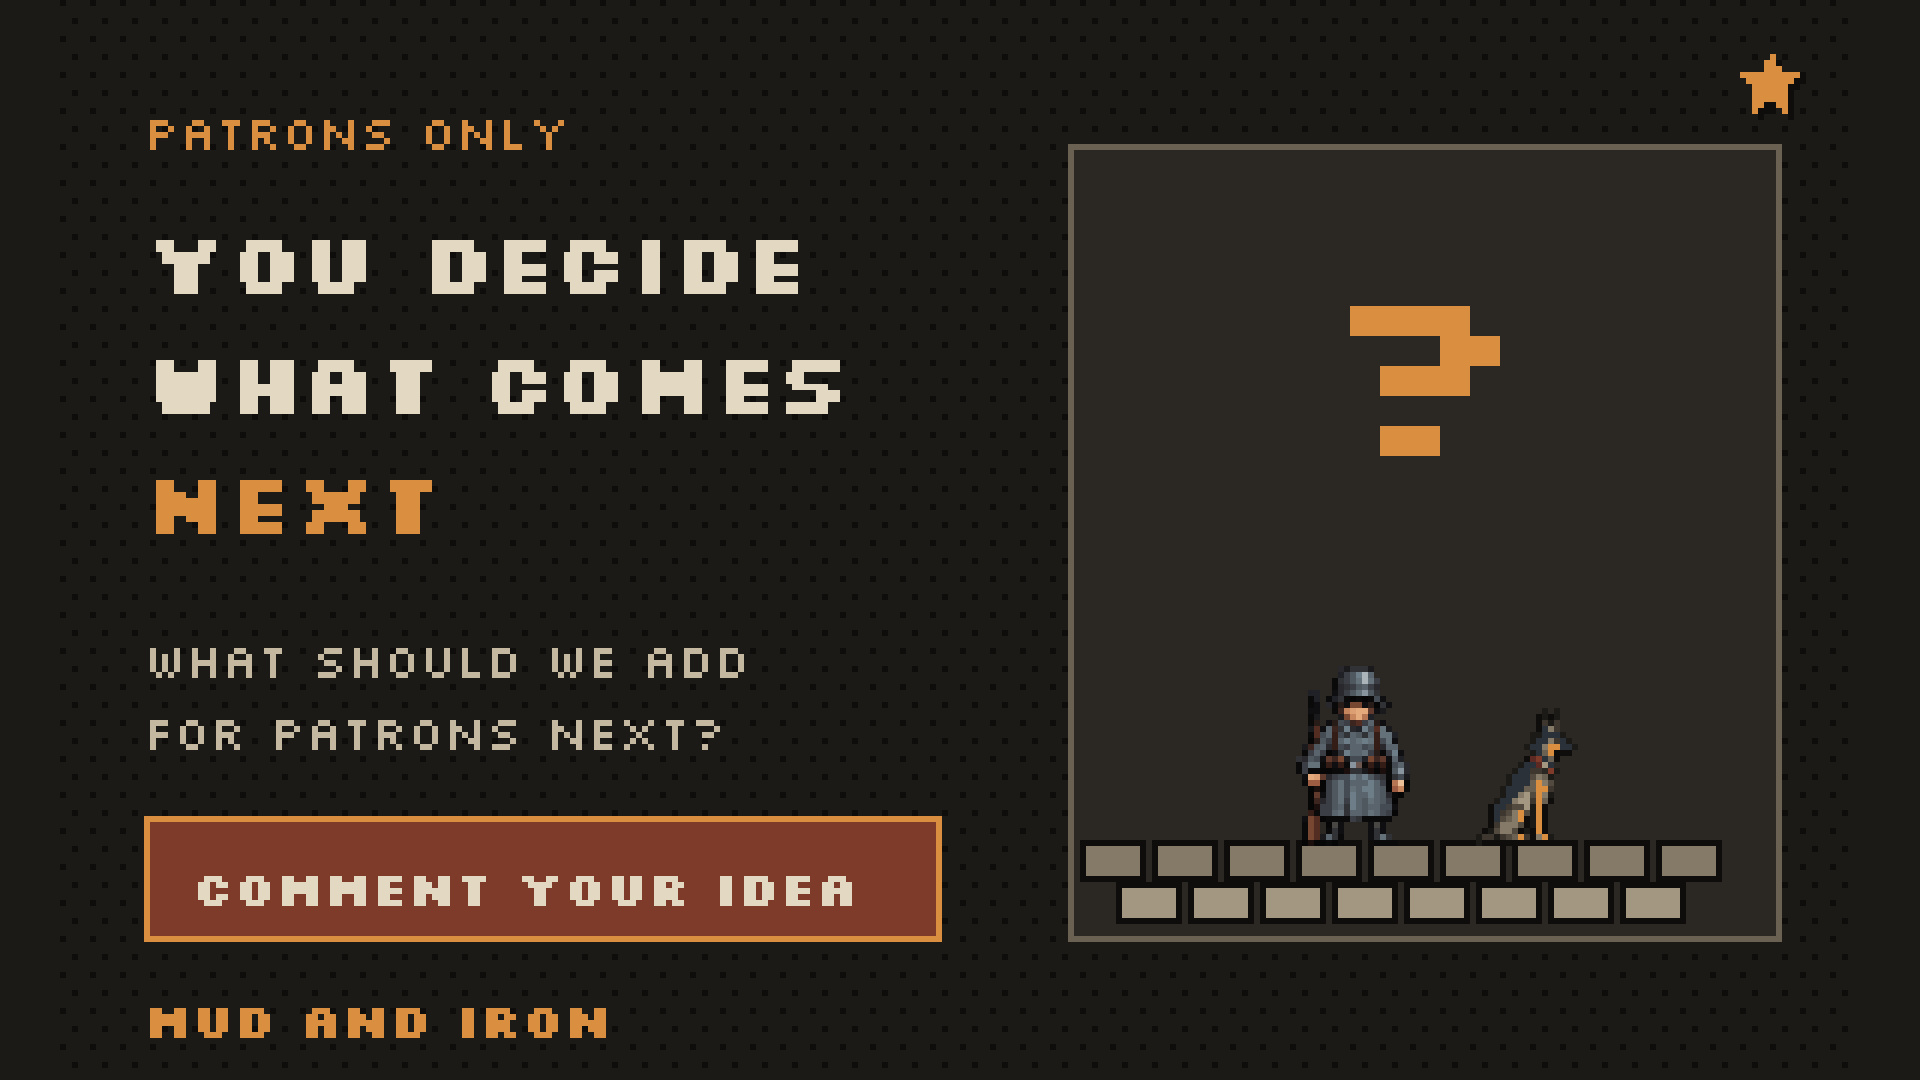
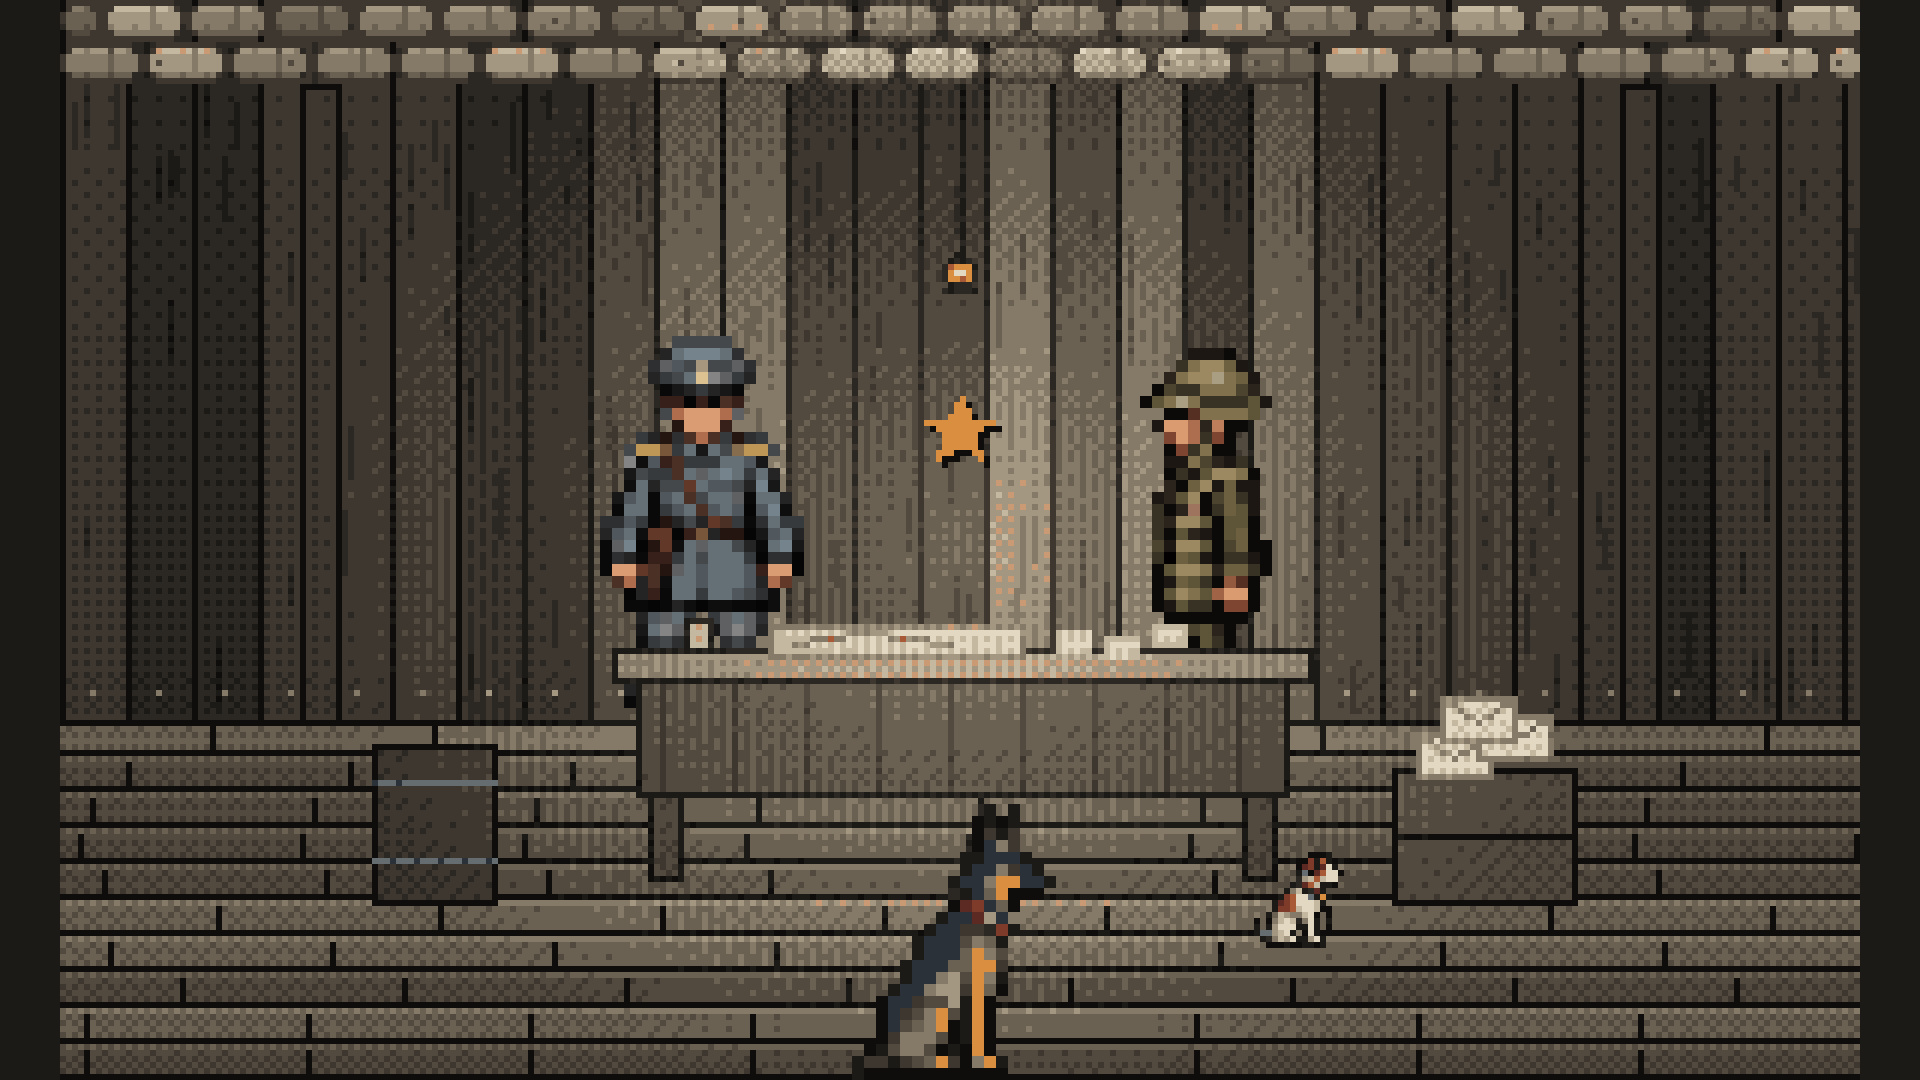
Patreon: obrázek k výzvě jen jako ilustrace bez textu
Claude-Session: https://claude.ai/code/session_01FWoRCTpAmETsDNoNBNsz1y

diff --git a/marketing/make_patreon_ask.py b/marketing/make_patreon_ask.py
@@ -1,64 +1,65 @@
 """Patreon post „You decide what comes next“ (22. 11. 2026): patroni navrhují v komentářích další odměnu.
-1920×1080 (mřížka 300×180 ×6, make_patreon_dog.save). Vlevo otázka a výzva, vpravo voják se psem a velký otazník (obecně, bez konkrétních nápadů; uživatel 22. 11.).
+Jen ilustrace bez textu (uživatel 22. 11.): kryt za noci, u stolu s mapou a prázdnými lístky stojí voják Hegemonie a Concordu,
+nad nimi lampa, u stolu pes, na bedně dopisy, nad stolem zlatá hvězda patronů.
+1920×1080 (mřížka 300×180 ×6, make_patreon_dog.save).
 Použití: python marketing/make_patreon_ask.py → marketing/promo/patreon/post_ask_1920x1080.jpg
 """
 import os
 import sys
-from PIL import Image, ImageDraw
+from PIL import ImageDraw
 
 sys.path.insert(0, os.path.dirname(os.path.abspath(__file__)))
-from make_posts import P, font, sprite  # noqa: E402
+from make_posts import P, sprite, up  # noqa: E402
 from make_patreon_dog import save, dog  # noqa: E402
 from make_patreon import star  # noqa: E402
+from day_art import planks, light, shade, lamp, sandbag_wall, paper  # noqa: E402
 
-ROOT = os.path.dirname(os.path.dirname(os.path.abspath(__file__)))
 W, H = 300, 180
 
 
-def flag(d, x, y, col, band):
-    d.rectangle((x, y, x, y + 26), fill=P["ink"])
-    d.rectangle((x + 1, y, x + 17, y + 11), fill=col)
-    d.rectangle((x + 1, y + 4, x + 17, y + 6), fill=band)
-    d.rectangle((x + 1, y + 11, x + 17, y + 11), fill=P["ink"])
-
-
-def chevrons(d, cx, top, n):
-    d.rectangle((cx - 6, top - 1, cx + 6, top + n * 3 + 2), fill=P["ink"])
-    for i in range(n):
-        y = top + i * 3
-        d.line([(cx - 4, y), (cx, y + 2), (cx + 4, y)], fill=(240, 196, 96))
-        d.line([(cx - 4, y + 1), (cx, y + 3), (cx + 4, y + 1)], fill=P["gold"])
-
-
 def main():
+    from PIL import Image
     im = Image.new("RGBA", (W, H), P["dark"] + (255,))
+    planks(im, (0, 0, W, 120), seed=31, vertical=True)          # stěna krytu
+    sandbag_wall(im, (0, 0, W, 14), seed=8)                     # strop z pytlů
+    planks(im, (0, 120, W, H), seed=17, vertical=False)         # podlaha
     d = ImageDraw.Draw(im)
-    # jemná zrnitost pozadí
-    for y in range(0, H, 3):
-        for x in range((y // 3) % 2 * 2, W, 5):
-            d.point((x, y), fill=P["ink"])
-    d.text((14, 16), "PATRONS ONLY", font=font(8), fill=P["gold"])
-    d.text((14, 34), "YOU DECIDE", font=font(14, True), fill=P["white"])
-    d.text((14, 54), "WHAT COMES", font=font(14, True), fill=P["white"])
-    d.text((14, 74), "NEXT", font=font(14, True), fill=P["gold"])
-    d.text((14, 104), "WHAT SHOULD WE ADD", font=font(8), fill=P["pale"])
-    d.text((14, 116), "FOR PATRONS NEXT?", font=font(8), fill=P["pale"])
-    d.rectangle((14, 136, 146, 156), fill=P["rust"], outline=P["gold"])
-    d.text((22, 142), "COMMENT YOUR IDEA", font=font(8, True), fill=P["white"])
-    d.text((14, 164), "MUD AND IRON", font=font(8, True), fill=P["gold"])
-    # vpravo: voják se psem u zákopu a velký otazník nad ním (obecná výzva, bez konkrétních nápadů)
-    d.rectangle((168, 24, 286, 156), fill=P["mud0"], outline=P["mud3"])
-    for x in range(170, 276, 12):  # val z pytlů dole (uvnitř rámu)
-        d.rectangle((x, 140, x + 10, 146), fill=P["sand"], outline=P["ink"])
-    for x in range(176, 270, 12):
-        d.rectangle((x, 147, x + 10, 153), fill=P["bone"], outline=P["ink"])
-    heg = sprite("hegemony_south.png")
-    im.alpha_composite(heg, (200, 110))
-    dg = dog("shepherd")
-    im.alpha_composite(dg, (228, 141 - dg.height))
-    tw = d.textlength("?", font=font(40, True))
-    d.text((227 - tw / 2, 34), "?", font=font(40, True), fill=P["gold"])
-    star(d, 285, 14, 5)
+    d.line((0, 120, W, 120), fill=P["ink"])
+    for x in (40, 260):                                         # nosné trámy
+        d.rectangle((x, 14, x + 6, 120), fill=P["mud1"], outline=P["ink"])
+    # bedna s dopisy vpravo, sud vlevo
+    d.rectangle((222, 128, 252, 150), fill=P["mud2"], outline=P["ink"])
+    d.line((222, 139, 252, 139), fill=P["ink"])
+    for k, (x, y) in enumerate(((226, 122), (236, 119), (230, 116))):
+        d.rectangle((x, y, x + 12, y + 7), fill=P["white"], outline=P["sand"])
+        d.line((x, y, x + 6, y + 4), fill=P["sand"]); d.line((x + 12, y, x + 6, y + 4), fill=P["sand"])
+    d.rectangle((52, 124, 72, 150), fill=P["mud1"], outline=P["ink"])
+    for y in (130, 143):
+        d.line((52, y, 72, y), fill=P["steel"])
+    # vojáci obou stran u stolu (2×), lampa nad stolem
+    lamp(im, 150, 46, top=14)
+    im.alpha_composite(up(sprite("hegemony_officer_south.png"), 2), (76, 56))
+    im.alpha_composite(up(sprite("concord_west.png"), 2), (160, 56))
+    d = ImageDraw.Draw(im)
+    # stůl s mapou a lístky (nápady patronů); kreslí se PŘED vojáky, ať jim zakryje nohy
+    d.rectangle((92, 108, 208, 113), fill=P["mud3"], outline=P["ink"])       # deska
+    d.rectangle((96, 113, 204, 132), fill=P["mud1"], outline=P["ink"])       # čelo stolu
+    for x in range(100, 204, 12):
+        d.line((x, 114, x, 131), fill=P["mud0"])
+    d.rectangle((98, 132, 103, 146), fill=P["mud1"], outline=P["ink"])
+    d.rectangle((197, 132, 202, 146), fill=P["mud1"], outline=P["ink"])
+    d.rectangle((118, 104, 160, 109), fill=P["sand"], outline=P["mud2"])     # mapa
+    d.line((122, 107, 134, 105), fill=P["mud2"]); d.line((134, 105, 148, 107), fill=P["mud2"])
+    d.point((140, 106), fill=P["rust"]); d.point((128, 106), fill=P["rust"])
+    for x, y in ((166, 105), (174, 106), (182, 104)):                        # prázdné lístky
+        d.rectangle((x, y, x + 5, y + 3), fill=P["white"], outline=P["sand"])
+    d.rectangle((104, 103, 108, 108), fill=P["steel"], outline=P["ink"])     # hrnek
+    light(im, 150, 90, 110, strength=1.2, steps=3)
+    shade(im, (0, 0, W, H), strength=0.4)
+    im.alpha_composite(up(dog("shepherd"), 2), (116, 116))      # pes až po světle (bez přebarvení)
+    im.alpha_composite(dog("jackrussell"), (190, 126))
+    d = ImageDraw.Draw(im)
+    star(d, 150, 72, 6)                                         # hvězda patronů nad stolem
     save(im, "post_ask_1500x900.jpg")
 
 
